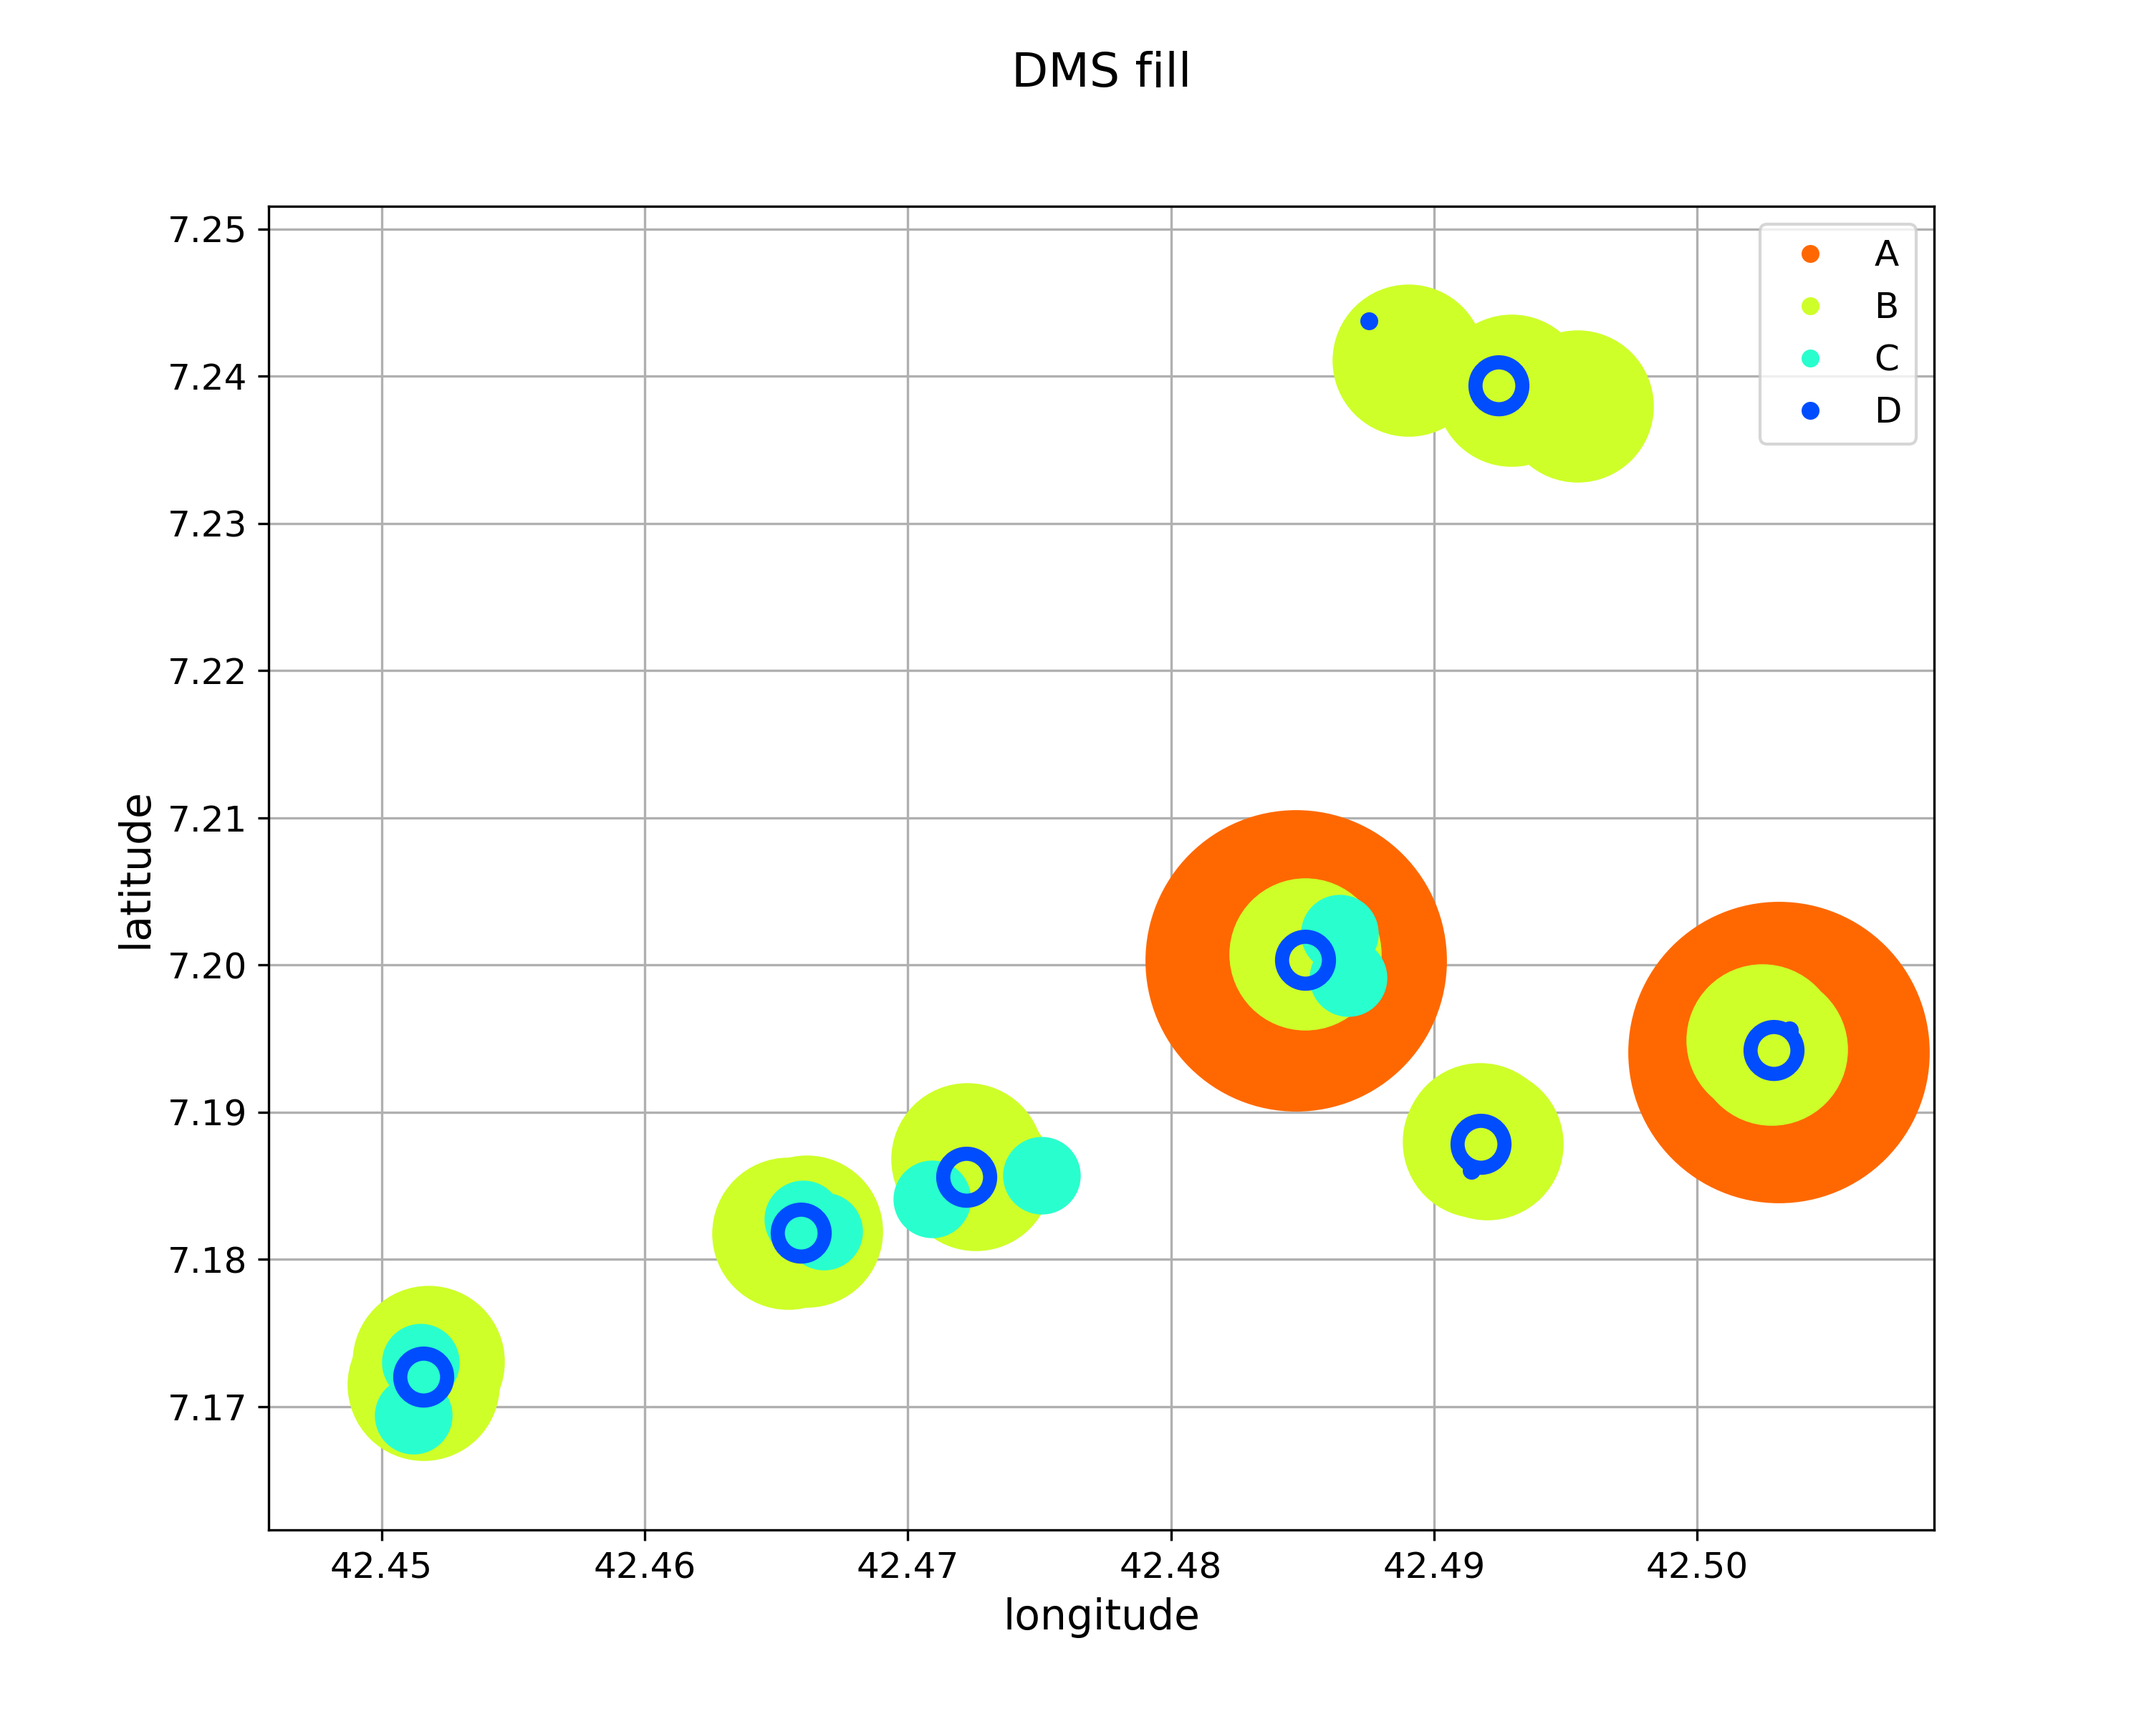
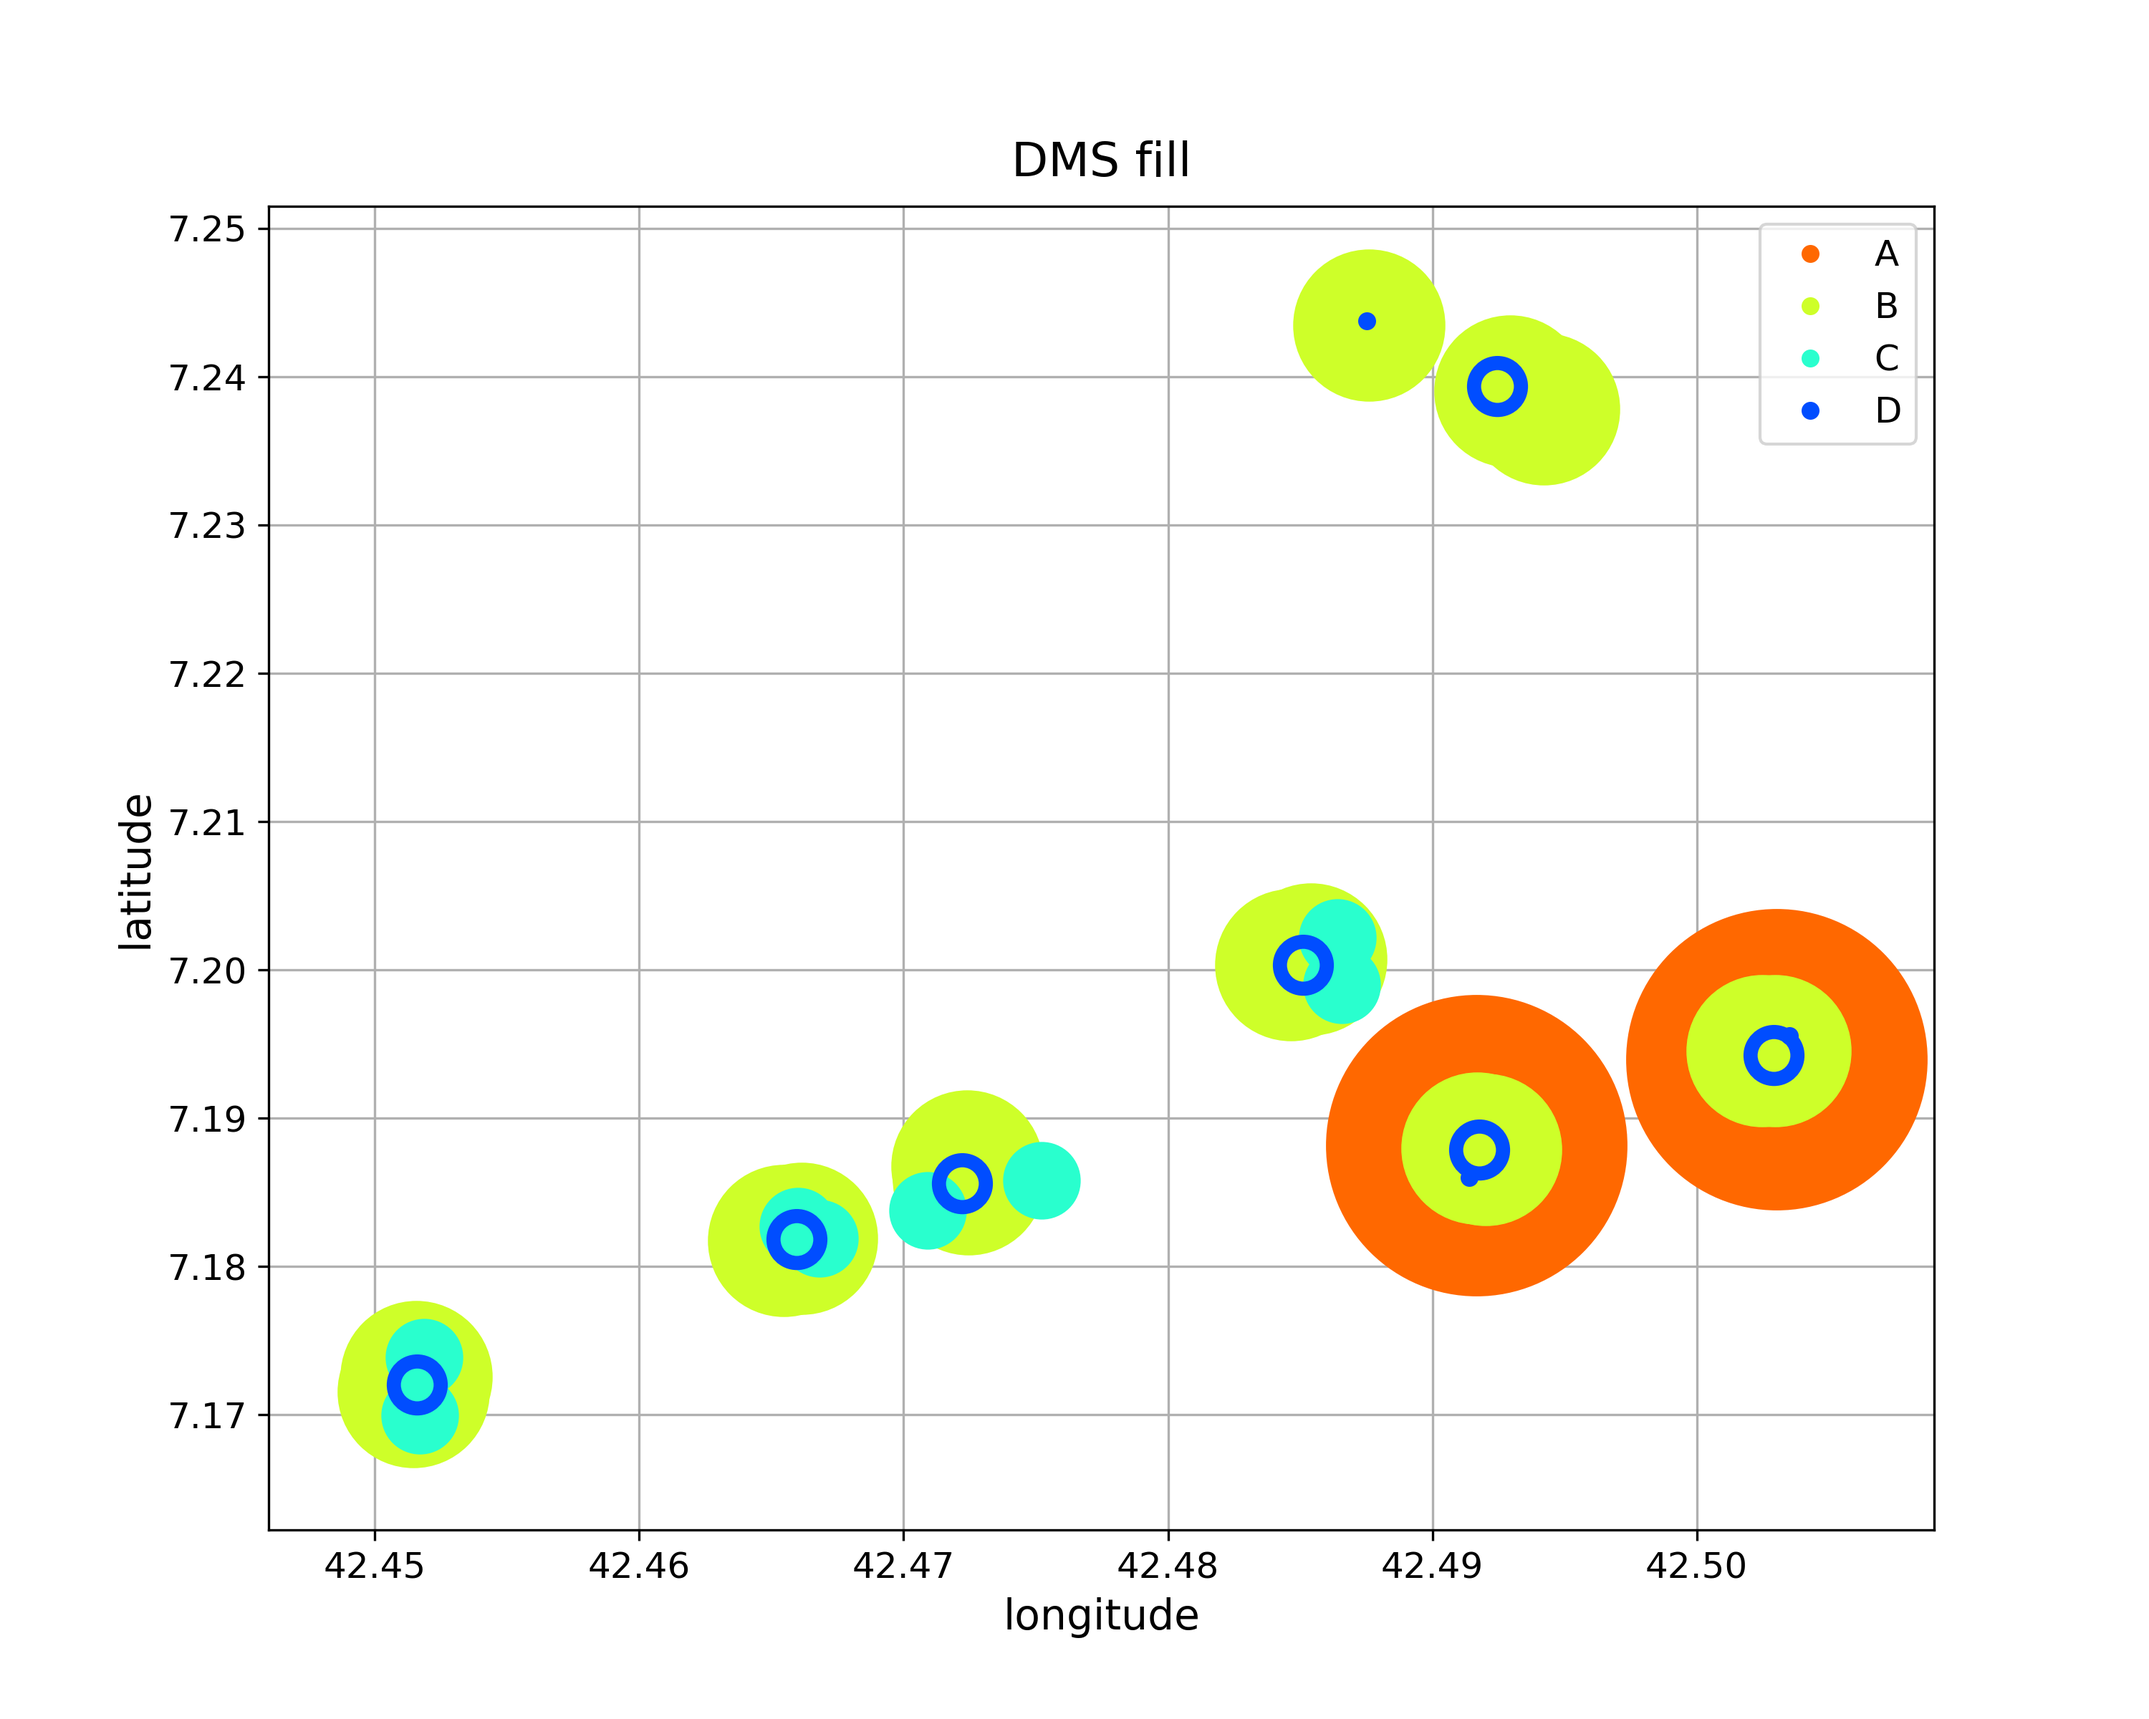
updated charts

diff --git a/clustering/show_data_map.py b/clustering/show_data_map.py
@@ -117,25 +117,33 @@ if __name__ == "__main__":
         X_containers[elem].insert(0, "clusters", clusters)
         X_containers[elem].insert(0, "stdev", clusters)
 
-        norm = np.linalg.norm(centers)
-        centers = centers / norm
-
         # plot centers
         if plot_centers:
-            plt.figure(figsize=(8, 6))
+            # plt.figure(figsize=(8, 6))
+            fig = plt.figure()
+            graph.set_plot_font()
             for idx in range(0, n_clusters):
                 plt.plot(centers[idx], label='C'+str(idx+1), color=colors[idx])
-            plt.legend(bbox_to_anchor=(0., 1.02, 1., .102), loc='lower left',
-                       ncol=n_clusters, mode="expand", borderaxespad=0.)
+            # plt.legend(bbox_to_anchor=(0., 1.02, 1., .102), loc='lower left',
+            #            ncol=n_clusters, mode="expand", borderaxespad=0.)
+            plt.legend(loc="upper left", fontsize=graph.FSIZE_LABEL_XS)
             # plt.legend(loc='right', ncol=n_clusters)
-            plt.title("zone " + str(i+1) + " clusters")
+            plt.grid(zorder=0)
+            graph.set_disp("zone " + str(i+1) + " clusters",
+                           "x [hours]", "y [L/h]")
             plt.show()
+            graph.save_figure(
+                fig, "./figs/map_cluster_zone_" + str(i+1) + ".png")
+
+        norm = np.linalg.norm(centers)
+        centers = centers / norm
 
         stdev_clusters_1 = []
         stdev_coords_1 = []
 
         # Analyze the TS for each center
         for idx in range(0, n_clusters):
+            # TSAnalysis(centers[idx])
             result = TSAnalysisGetSeasonal(centers[idx])
             stdev = statistics.stdev(result)
             # print(stdev)
@@ -154,8 +162,10 @@ if __name__ == "__main__":
             stdev_coords_1.append(avg_coords)
 
             if plot_seasonal:
-                plt.plot(result)
-                plt.show()
+                fig = graph.plot(result, None, "zone " + str(i+1) + " cluster " + str(idx) + " seasonal",
+                           "x [hours]", "y [normalized]", False)
+                graph.save_figure(
+                    fig, "./figs/map_cluster_seasonal_"+str(i+1)+"_" + str(idx) + ".png")
 
         stdev_clusters[elem] = stdev_clusters_1
         stdev_coords[elem] = stdev_coords_1
@@ -259,6 +269,6 @@ if __name__ == "__main__":
     print(X_centers_vect)
 
     fig = graph.plot_map_features(X_centers_vect, stdev_coords_by_stdev,
-                            colors_plot, None, None, 0.1, labels, sizes)
+                                  colors_plot, None, None, 0.1, labels, sizes)
 
     graph.save_figure(fig, "./figs/map_cluster_result.png")

diff --git a/clustering/modules/graph.py b/clustering/modules/graph.py
@@ -65,17 +65,22 @@ class CMapMatrixElement:
 #     y = []
 
 
-def plot(y, x, title, xlabel, ylabel):
-    fig = plt.figure()
-    plt.plot(x, y)
+def plot(y, x, title, xlabel, ylabel, show):
+    fig = plt.figure(figsize=(8,6))
+    if x is None:
+        plt.plot(y)
+    else:
+        plt.plot(x, y)
     yint = []
+    plt.grid()
     locs, labels = plt.xticks()
     yint = x
     # for each in locs:
     #     yint.append(int(each))
     plt.xticks(yint)
     set_disp(title, xlabel, ylabel)
-    plt.show()
+    if show:
+        plt.show()
     return fig
 
 
@@ -308,7 +313,7 @@ def set_disp_ax(ax, title, xlabel, ylabel):
 
 def set_disp(title, xlabel, ylabel):
     if title:
-        plt.gca().set_title(title, fontsize=FSIZE_TITLE)
+        plt.gca().set_title(title, fontsize=FSIZE_TITLE, pad=10)
     if xlabel:
         plt.xlabel(xlabel, fontsize=FSIZE_LABEL)
     if ylabel:
